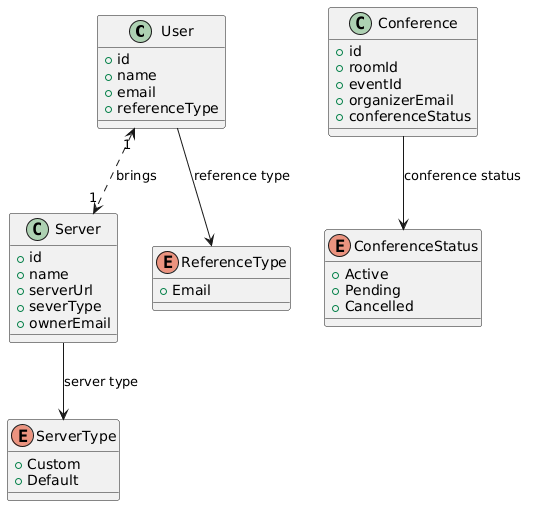
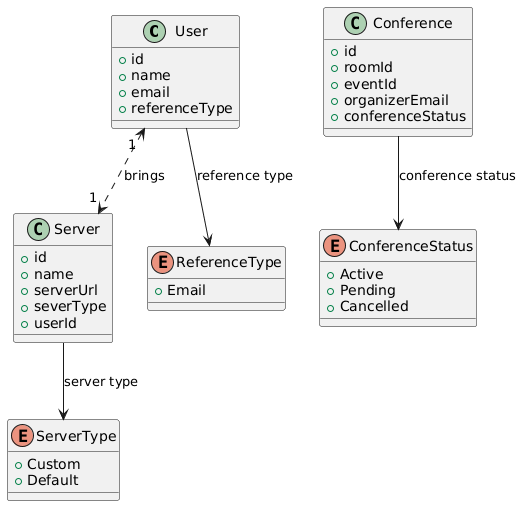
refactored user service and server service to have one to one relation

diff --git a/src/main/java/com/teenthofabud/videoconference/mdr/server/service/impl/ServerServiceImpl.java b/src/main/java/com/teenthofabud/videoconference/mdr/server/service/impl/ServerServiceImpl.java
@@ -2,9 +2,8 @@ package com.teenthofabud.videoconference.mdr.server.service.impl;
 
 import com.teenthofabud.videoconference.mdr.error.core.MDRErrorCode;
 import com.teenthofabud.videoconference.mdr.server.constants.ServerType;
-import com.teenthofabud.videoconference.mdr.server.converter.ServerEntityToVoConverter;
 import com.teenthofabud.videoconference.mdr.server.converter.ServerFormToEntityConverter;
-import com.teenthofabud.videoconference.mdr.server.vo.ServerVo;
+import com.teenthofabud.videoconference.mdr.server.form.ServerPreferenceForm;
 import com.teenthofabud.videoconference.mdr.server.entity.ServerEntity;
 import com.teenthofabud.videoconference.mdr.server.error.ServerException;
 import com.teenthofabud.videoconference.mdr.server.form.ServerForm;
@@ -12,7 +11,8 @@ import com.teenthofabud.videoconference.mdr.server.repository.ServerRepository;
 import com.teenthofabud.videoconference.mdr.server.service.ServerService;
 import com.teenthofabud.videoconference.mdr.user.entity.UserEntity;
 import com.teenthofabud.videoconference.mdr.user.error.UserException;
-import com.teenthofabud.videoconference.mdr.user.service.UserService;
+import com.teenthofabud.videoconference.mdr.user.repository.UserRepository;
+import jakarta.transaction.Transactional;
 import org.springframework.beans.factory.annotation.Autowired;
 import org.springframework.stereotype.Service;
 
@@ -25,25 +25,9 @@ public class ServerServiceImpl implements ServerService {
     ServerRepository serverRepository;
     @Autowired
     ServerFormToEntityConverter serverFormToEntityConverter;
+    @Autowired
+    UserRepository userRepository;
 
-    @Override
-    public ServerEntity createNewCustomServer(ServerForm form) throws ServerException {
-        return createNewServer(form,ServerType.CUSTOM);
-    }
-
-    @Override
-    public ServerEntity createNewDefaultServer(ServerForm form) throws ServerException {
-        return createNewServer(form,ServerType.DEFAULT);
-    }
-
-    private ServerEntity createNewServer(ServerForm form, ServerType type) throws ServerException {
-        Optional<ServerEntity> existingServer = serverRepository.findByServerUrl(form.getServerUrl());
-        if(existingServer.isPresent())
-            throw new ServerException(MDRErrorCode.MDR_EXISTS,new Object[]{form.getServerUrl()});
-        ServerEntity server = serverFormToEntityConverter.convert(form);
-        server.setServerType(type);
-        return serverRepository.save(server);
-    }
 
     @Override
     public ServerEntity getServerById(Long id) throws ServerException {
@@ -51,15 +35,24 @@ public class ServerServiceImpl implements ServerService {
                 .orElseThrow(() -> new ServerException(MDRErrorCode.MDR_NOT_FOUND,new Object[]{id}));
     }
 
-    @Override
-    public Optional<ServerEntity> findServerByUrl(String url) {
-        return serverRepository.findByServerUrl(url);
-    }
 
     @Override
-    public ServerEntity getServerByUrl(String url) throws ServerException {
-        return serverRepository.findByServerUrl(url)
-                .orElseThrow(() -> new ServerException(MDRErrorCode.MDR_NOT_FOUND,new Object[]{url}));
+    @Transactional
+    public void addServerPreference(ServerPreferenceForm form) throws UserException, ServerException {
+        UserEntity user = userRepository.findByEmail(form.getEmail())
+                .orElseThrow(() -> new UserException(MDRErrorCode.MDR_NOT_FOUND,
+                        new Object[]{form.getEmail()}));
+        Optional<ServerEntity> existingServer = serverRepository.findByServerUrlAndOwner(form.getPreferredServerUrl(),user);
+        if(existingServer.isPresent())
+            throw new ServerException(MDRErrorCode.MDR_EXISTS,new Object[]{form.getPreferredServerUrl(),user.getEmail()});
+        ServerEntity server = ServerEntity.builder()
+                .serverType(ServerType.CUSTOM)
+                .owner(user)
+                .serverUrl(form.getPreferredServerUrl())
+                .name(form.getName())
+                .build();
+        server = serverRepository.save(server);
+        user.setPreferredServer(server);
     }
 
 }

diff --git a/src/main/java/com/teenthofabud/videoconference/mdr/server/resource/ServerAPI.java b/src/main/java/com/teenthofabud/videoconference/mdr/server/resource/ServerAPI.java
@@ -1,5 +1,6 @@
 package com.teenthofabud.videoconference.mdr.server.resource;
 
+import com.teenthofabud.videoconference.mdr.server.form.ServerPreferenceForm;
 import com.teenthofabud.videoconference.mdr.server.vo.ServerVo;
 import com.teenthofabud.videoconference.mdr.server.error.ServerException;
 import com.teenthofabud.videoconference.mdr.server.form.ServerForm;
@@ -22,16 +23,16 @@ import static org.springframework.http.MediaType.APPLICATION_JSON_VALUE;
 @Tag(name = "ServerAPI", description = "Server Management")
 public interface ServerAPI {
 
-    @Hidden
-    @Operation(method = "POST", summary = "Default Server creation", description = "createNewDefaultServer")
-    @ApiResponses(value = {
-            @ApiResponse(responseCode = "201", description = "Server created"),
-            @ApiResponse(
-                    responseCode = "409", description = "Server already created",
-                    content = @Content(mediaType = APPLICATION_JSON_VALUE, schema = @Schema(implementation = ErrorVo.class)))
-    })
-    ResponseEntity<Void> createNewDefaultServer(@RequestBody(description = "Server form", required = true,
-            content = @Content(schema = @Schema(implementation = ServerForm.class))) ServerForm form) throws ServerException;
+//    @Hidden
+//    @Operation(method = "POST", summary = "Default Server creation", description = "createNewDefaultServer")
+//    @ApiResponses(value = {
+//            @ApiResponse(responseCode = "201", description = "Server created"),
+//            @ApiResponse(
+//                    responseCode = "409", description = "Server already created",
+//                    content = @Content(mediaType = APPLICATION_JSON_VALUE, schema = @Schema(implementation = ErrorVo.class)))
+//    })
+//    ResponseEntity<Void> createNewDefaultServer(@RequestBody(description = "Server form", required = true,
+//            content = @Content(schema = @Schema(implementation = ServerForm.class))) ServerForm form) throws ServerException;
 
     @Operation(method = "GET", summary = "Get Server By ID", description = "getServerById")
     @ApiResponses(value = {
@@ -42,5 +43,14 @@ public interface ServerAPI {
     })
     @Parameter(description = "Server ID (PK)",name = "serverId",required = true,in = ParameterIn.PATH, schema = @Schema(implementation = Long.class))
     ResponseEntity<ServerVo> getServerById(Long serverId) throws ServerException;
+
+    @Operation(method = "POST", summary = "Add new Server preference for the user", description = "addServerPreference")
+    @ApiResponses( value = {
+            @ApiResponse(responseCode = "201",description = "Successfully added server preference"),
+            @ApiResponse(responseCode = "404", description = "User not found",
+                    content = @Content(mediaType = APPLICATION_JSON_VALUE, schema = @Schema(implementation = ErrorVo.class)))
+
+    })
+    ResponseEntity<Void> addServerPreference(ServerPreferenceForm form) throws UserException, ServerException;
 
 }

diff --git a/src/main/java/com/teenthofabud/videoconference/mdr/server/resource/impl/ServerController.java b/src/main/java/com/teenthofabud/videoconference/mdr/server/resource/impl/ServerController.java
@@ -2,6 +2,7 @@ package com.teenthofabud.videoconference.mdr.server.resource.impl;
 
 import com.teenthofabud.videoconference.mdr.server.converter.ServerEntityToVoConverter;
 import com.teenthofabud.videoconference.mdr.server.entity.ServerEntity;
+import com.teenthofabud.videoconference.mdr.server.form.ServerPreferenceForm;
 import com.teenthofabud.videoconference.mdr.server.vo.ServerVo;
 import com.teenthofabud.videoconference.mdr.server.error.ServerException;
 import com.teenthofabud.videoconference.mdr.server.form.ServerForm;
@@ -27,19 +28,19 @@ public class ServerController implements ServerAPI {
     @Autowired
     ServerEntityToVoConverter serverEntityToVoConverter;
 
-    @Override
-    @PostMapping
-    // internal endpoint
-    public ResponseEntity<Void> createNewDefaultServer(@Valid @RequestBody ServerForm form) throws ServerException {
-        ServerEntity serverEntity = serverService.createNewDefaultServer(form);
-        ServerVo serverVo = serverEntityToVoConverter.convert(serverEntity);
-        URI location = ServletUriComponentsBuilder
-                .fromCurrentRequest()
-                .path("/{id}")
-                .buildAndExpand(serverVo.getId())
-                .toUri();
-        return ResponseEntity.created(location).build();
-    }
+//    @Override
+//    @PostMapping
+//    // internal endpoint
+//    public ResponseEntity<Void> createNewDefaultServer(@Valid @RequestBody ServerForm form) throws ServerException {
+//        ServerEntity serverEntity = serverService.createNewDefaultServer(form);
+//        ServerVo serverVo = serverEntityToVoConverter.convert(serverEntity);
+//        URI location = ServletUriComponentsBuilder
+//                .fromCurrentRequest()
+//                .path("/{id}")
+//                .buildAndExpand(serverVo.getId())
+//                .toUri();
+//        return ResponseEntity.created(location).build();
+//    }
 
     @Override
     @GetMapping("/{serverId}")
@@ -47,6 +48,13 @@ public class ServerController implements ServerAPI {
         ServerEntity serverEntity = serverService.getServerById(serverId);
         ServerVo serverVo = serverEntityToVoConverter.convert(serverEntity);
         return ResponseEntity.ok(serverVo);
+    }
+
+    @Override
+    @PostMapping("/preference")
+    public ResponseEntity<Void> addServerPreference(@Valid @RequestBody ServerPreferenceForm form) throws UserException, ServerException {
+        serverService.addServerPreference(form);
+        return ResponseEntity.ok().build();
     }
 
 

diff --git a/src/main/java/com/teenthofabud/videoconference/mdr/user/service/impl/UserServiceImpl.java b/src/main/java/com/teenthofabud/videoconference/mdr/user/service/impl/UserServiceImpl.java
@@ -11,7 +11,7 @@ import com.teenthofabud.videoconference.mdr.server.form.ServerForm;
 import com.teenthofabud.videoconference.mdr.server.service.ServerService;
 import com.teenthofabud.videoconference.mdr.user.converter.UserFormToUserEntityConverter;
 import com.teenthofabud.videoconference.mdr.user.entity.UserEntity;
-import com.teenthofabud.videoconference.mdr.user.form.ServerPreferenceForm;
+import com.teenthofabud.videoconference.mdr.server.form.ServerPreferenceForm;
 import com.teenthofabud.videoconference.mdr.user.error.UserException;
 import com.teenthofabud.videoconference.mdr.user.form.UserForm;
 import com.teenthofabud.videoconference.mdr.user.repository.UserRepository;
@@ -55,26 +55,6 @@ public class UserServiceImpl implements UserService {
     public UserEntity getUserByEmail(String email) throws UserException {
         return userRepository.findByEmail(email)
                 .orElseThrow(()->new UserException(MDRErrorCode.MDR_NOT_FOUND,new Object[]{email}));
-    }
-
-    @Override
-    public void addServerPreference(ServerPreferenceForm form) throws UserException, ServerException {
-        UserEntity user = userRepository.findByEmail(form.getEmail())
-                .orElseThrow(() -> new UserException(MDRErrorCode.MDR_NOT_FOUND,
-                        new Object[]{form.getEmail()}));
-        Optional<ServerEntity> existingServer = serverService.findServerByUrl(form.getPreferredServerUrl());
-        ServerEntity server = null;
-        if(existingServer.isPresent())
-            server = existingServer.get();
-        else{
-            ServerForm serverForm = ServerForm.builder()
-                    .serverUrl(form.getPreferredServerUrl())
-                    .name(form.getName())
-                    .build();
-            server = serverService.createNewCustomServer(serverForm);
-        }
-        user.setPreferredServer(server);
-        userRepository.save(user);
     }
 
     @Override

diff --git a/src/main/java/com/teenthofabud/videoconference/mdr/user/resource/UserAPI.java b/src/main/java/com/teenthofabud/videoconference/mdr/user/resource/UserAPI.java
@@ -1,7 +1,7 @@
 package com.teenthofabud.videoconference.mdr.user.resource;
 
 import com.teenthofabud.videoconference.mdr.server.error.ServerException;
-import com.teenthofabud.videoconference.mdr.user.form.ServerPreferenceForm;
+import com.teenthofabud.videoconference.mdr.server.form.ServerPreferenceForm;
 import com.teenthofabud.videoconference.mdr.user.vo.UserVo;
 import com.teenthofabud.videoconference.mdr.user.error.UserException;
 import com.teenthofabud.videoconference.mdr.user.form.UserForm;
@@ -42,15 +42,6 @@ public interface UserAPI {
                     content = @Content(mediaType = APPLICATION_JSON_VALUE, schema = @Schema(implementation = ErrorVo.class)))
     })
     ResponseEntity<UserVo> getUserById(Long Id) throws UserException;
-
-    @Operation(method = "POST", summary = "Add new Server preference for the user", description = "addServerPreference")
-    @ApiResponses( value = {
-            @ApiResponse(responseCode = "201",description = "Successfully added server preference"),
-            @ApiResponse(responseCode = "404", description = "User not found",
-            content = @Content(mediaType = APPLICATION_JSON_VALUE, schema = @Schema(implementation = ErrorVo.class)))
-
-    })
-    ResponseEntity<Void> addServerPreference(ServerPreferenceForm form) throws UserException, ServerException;
 
 
 }

diff --git a/src/main/java/com/teenthofabud/videoconference/mdr/user/resource/impl/UserController.java b/src/main/java/com/teenthofabud/videoconference/mdr/user/resource/impl/UserController.java
@@ -3,7 +3,7 @@ package com.teenthofabud.videoconference.mdr.user.resource.impl;
 import com.teenthofabud.videoconference.mdr.server.error.ServerException;
 import com.teenthofabud.videoconference.mdr.user.converter.UserEntityToVoConverter;
 import com.teenthofabud.videoconference.mdr.user.entity.UserEntity;
-import com.teenthofabud.videoconference.mdr.user.form.ServerPreferenceForm;
+import com.teenthofabud.videoconference.mdr.server.form.ServerPreferenceForm;
 import com.teenthofabud.videoconference.mdr.user.vo.UserVo;
 import com.teenthofabud.videoconference.mdr.user.error.UserException;
 import com.teenthofabud.videoconference.mdr.user.form.UserForm;
@@ -49,11 +49,5 @@ public class UserController implements UserAPI {
         return ResponseEntity.ok(userVo);
     }
 
-    @Override
-    @PostMapping("/preferred-server")
-    public ResponseEntity<Void> addServerPreference(@Valid @RequestBody ServerPreferenceForm form) throws UserException, ServerException {
-        userService.addServerPreference(form);
-        return ResponseEntity.ok().build();
-    }
 
 }

diff --git a/src/main/java/com/teenthofabud/videoconference/mdr/user/service/UserService.java b/src/main/java/com/teenthofabud/videoconference/mdr/user/service/UserService.java
@@ -4,10 +4,7 @@ package com.teenthofabud.videoconference.mdr.user.service;
 import com.fasterxml.jackson.core.JsonProcessingException;
 import com.github.fge.jsonpatch.JsonPatch;
 import com.github.fge.jsonpatch.JsonPatchException;
-import com.teenthofabud.videoconference.mdr.server.error.ServerException;
 import com.teenthofabud.videoconference.mdr.user.entity.UserEntity;
-import com.teenthofabud.videoconference.mdr.user.form.ServerPreferenceForm;
-import com.teenthofabud.videoconference.mdr.user.vo.UserVo;
 import com.teenthofabud.videoconference.mdr.user.error.UserException;
 import com.teenthofabud.videoconference.mdr.user.form.UserForm;
 
@@ -19,8 +16,6 @@ public interface UserService {
     UserEntity getUserById(Long id) throws UserException;
 
     UserEntity getUserByEmail(String email) throws UserException;
-
-    void addServerPreference(ServerPreferenceForm preferences) throws UserException, ServerException;
 
     void patchUser(String userId, JsonPatch patches) throws UserException, JsonPatchException, JsonProcessingException;
 

diff --git a/src/main/java/com/teenthofabud/videoconference/mdr/server/service/ServerService.java b/src/main/java/com/teenthofabud/videoconference/mdr/server/service/ServerService.java
@@ -3,20 +3,16 @@ package com.teenthofabud.videoconference.mdr.server.service;
 import com.teenthofabud.videoconference.mdr.server.entity.ServerEntity;
 import com.teenthofabud.videoconference.mdr.server.error.ServerException;
 import com.teenthofabud.videoconference.mdr.server.form.ServerForm;
+import com.teenthofabud.videoconference.mdr.server.form.ServerPreferenceForm;
 import com.teenthofabud.videoconference.mdr.user.error.UserException;
 
 import java.util.Optional;
 
 public interface ServerService {
 
-    ServerEntity createNewCustomServer(ServerForm form) throws ServerException;
-
-    ServerEntity createNewDefaultServer(ServerForm form) throws ServerException;
-
     ServerEntity getServerById(Long serverID) throws ServerException;
 
-    Optional<ServerEntity> findServerByUrl(String url);
+    void addServerPreference(ServerPreferenceForm preferences) throws UserException, ServerException;
 
-    ServerEntity getServerByUrl(String url) throws ServerException;
 
 }

diff --git a/src/main/java/com/teenthofabud/videoconference/mdr/server/entity/ServerEntity.java b/src/main/java/com/teenthofabud/videoconference/mdr/server/entity/ServerEntity.java
@@ -32,25 +32,12 @@ public class ServerEntity {
     @EqualsAndHashCode.Include
     String serverUrl;
 
+    @OneToOne(fetch = FetchType.LAZY)
+    @JoinColumn(name = "owner_id", nullable = false)
+    private UserEntity owner;
+
     @Column(name = "server_type", nullable = false)
     @Enumerated(EnumType.STRING)
     ServerType serverType;
 
-    @OneToMany(cascade = CascadeType.PERSIST, mappedBy = "server")
-    @ToString.Exclude
-    List<GoogleConferenceEntity> conferences = new ArrayList<>();
-
-    public void addConference(GoogleConferenceEntity conference){
-        if(conference == null)
-            return;
-        conferences.add(conference);
-        conference.setServer(this);
-    }
-
-    public void removeConference(GoogleConferenceEntity conference){
-        if(conference == null)
-            return;
-        conferences.remove(conference);
-        conference.setServer(null);
-    }
 }

diff --git a/src/main/java/com/teenthofabud/videoconference/mdr/user/entity/UserEntity.java b/src/main/java/com/teenthofabud/videoconference/mdr/user/entity/UserEntity.java
@@ -35,26 +35,7 @@ public class UserEntity {
     @Enumerated(EnumType.STRING)
     ReferenceType referenceType;
 
-    @ManyToOne(fetch = FetchType.LAZY)
-    @JoinColumn(name = "preferred_server_id")
+    @OneToOne(mappedBy = "owner",fetch = FetchType.LAZY)
     private ServerEntity preferredServer;
-
-    @OneToMany(cascade = CascadeType.PERSIST, mappedBy = "createdBy")
-    @ToString.Exclude
-    List<GoogleConferenceEntity> conferences = new ArrayList<>();
-
-    public void addConference(GoogleConferenceEntity conference){
-        if(conference == null)
-            return;
-        conferences.add(conference);
-        conference.setCreatedBy(this);
-    }
-
-    public void removeConference(GoogleConferenceEntity conference){
-        if(conference == null)
-            return;
-        conferences.remove(conference);
-        conference.setCreatedBy(null);
-    }
 
 }

diff --git a/src/main/java/com/teenthofabud/videoconference/mdr/server/repository/ServerRepository.java b/src/main/java/com/teenthofabud/videoconference/mdr/server/repository/ServerRepository.java
@@ -1,6 +1,7 @@
 package com.teenthofabud.videoconference.mdr.server.repository;
 
 import com.teenthofabud.videoconference.mdr.server.entity.ServerEntity;
+import com.teenthofabud.videoconference.mdr.user.entity.UserEntity;
 import org.springframework.data.jpa.repository.JpaRepository;
 import org.springframework.stereotype.Repository;
 
@@ -10,5 +11,5 @@ import java.util.Optional;
 @Repository
 public interface ServerRepository extends JpaRepository<ServerEntity,Long>{
 
-    Optional<ServerEntity> findByServerUrl(String serverUrl);
+    Optional<ServerEntity> findByServerUrlAndOwner(String serverUrl, UserEntity owner);
 }

diff --git a/src/main/java/com/teenthofabud/videoconference/mdr/conference/entity/ConferenceEntity.java b/src/main/java/com/teenthofabud/videoconference/mdr/conference/entity/ConferenceEntity.java
@@ -25,9 +25,8 @@ public abstract class ConferenceEntity {
     @Column(name = "room_id", nullable = false)
     String roomId;
 
-    @ManyToOne(fetch = FetchType.LAZY)
-    @JoinColumn(name = "created_by")
-    UserEntity createdBy;
+    @Column(name = "organizer_email", nullable = false)
+    String organizerEmail;
 
     @ManyToOne(fetch = FetchType.LAZY)
     @JoinColumn(name = "server_id")
